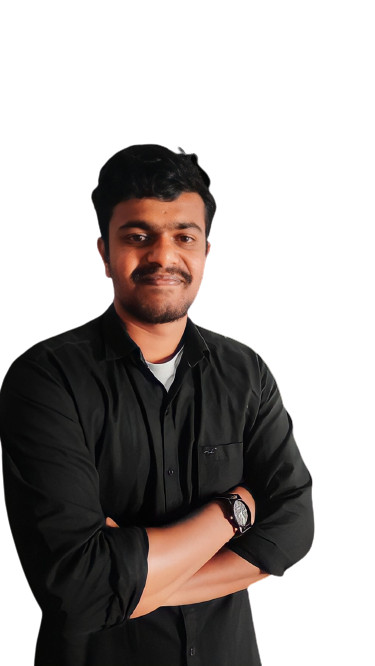
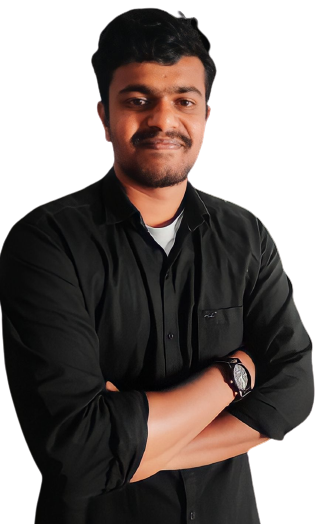
vvv

diff --git a/style.css b/style.css
@@ -31,10 +31,11 @@ body{
     height: 100vh;
     
     overflow: hidden;
+    
 
 }
 .container{
-    padding: 10px 10%;
+    padding: 10px 20px;
 
 }
 nav{
@@ -44,11 +45,6 @@ nav{
     justify-content: space-between;
     flex-wrap: wrap;
     float: right;
-}
-.logo{
-
-    margin-top: 8px;
-    width: 140px
 }
 
 nav ul li{
@@ -104,18 +100,19 @@ nav ul li a:hover::after{
    
     position: absolute;
    bottom: 0;
+   top: 15%;
     left: 10%;    
 }
-.image-box image{
+.image-box img{
     position: relative;
-
 }
+
 
 
 .pattern{
     position: absolute;
     top: 20%;
-    left: 40%;
+    left: 20%;
     display: flex;
     transform: rotate(40deg);
     z-index: -1;
@@ -131,11 +128,11 @@ nav ul li a:hover::after{
 }
 .pattern img:nth-child(1){
     transform: rotate(-45deg) translate(-70px, -50px) scale(.9);
-    animation-delay:0.5s;
+    animation-delay:0.3s;
 }
 .pattern img:nth-child(2){
     transform: rotate(65deg) translate(0px, -40px) scale(.9);
-    animation-delay:1.5s;
+    animation-delay:1.3s;
 }
 @keyframes move {
     100%{
@@ -162,7 +159,8 @@ nav ul li a:hover::after{
  }
 
 .about-col-1 img{ 
-    width: 90%; border-radius: 15px; 
+    
+    width: 100%; border-radius: 15px; 
 }
 
 
@@ -230,7 +228,7 @@ nav ul li a:hover::after{
 .service-list{
     display: grid;
     grid-template-columns: repeat(auto-fit, minmax(250px,1fr));
-    grid-gap: 40px;
+    grid-gap: 150px;
     margin-top: 50px;
 
 }
@@ -423,62 +421,94 @@ nav .fa-solid{
     display: none;
 }
 
-@media only screen and (max-width: 600px){
-   .image-box{
-    margin-top: 0;
-    position: sticky;
-   }
-    .header-text{
-       
-        margin-left: -70%;
-        
-    }
+@media only screen and (max-width: 600px) {
+  .pattern img{
+    display: none;
+    overflow: hidden;
+  }
+ .image-box{
+   left: -15%;
+    bottom: 0;
+ }
+  .image-box img{
+   
+ top: 40px;
+   width: 350px;
+    left: -10%;
+    bottom: 0;
+    z-index: -1;
+    position: relative;
+    
+  }
+
+  .header-text{
+    margin-top: 70%;
+    margin-left: 35%;
+    font-size: 30px;
+  }
+  
     .header-text h1{
-        text-align: center;
-       
+     
+        display: block;
+        margin-left: 30px;
         
+   
+      
+       z-index: 2;
         font-size: 27px;
     }
     nav .fa-solid{
         display: block;
         font-size: 25px;
         
+        
     }
     nav ul{
+        top: 0;
+    left: -100%;
+     position: absolute;
         background-color: rgba(12, 96,221, 0.20);
        backdrop-filter: blur(20px);
-        position:absolute;
-        top: 0;
-        right: -200px;
-        width: 200px;
+       
+    
+      
+        width: 100%;
         height: 100vh;
-        
-        
-        padding-top: 50px;
-        
+        display: flex;
+        flex-direction: column;
+       align-items: center;
+       overflow: hidden;
+       justify-content: center;
+      
         z-index: 2;
-        transition: right 0.3s ;
+        transition: left 0.5s;
+       
     }
+    
    
     nav ul li{
-        text-align: center;
-        display: block;
-        margin: 35px ;
+      display: flex;
+      align-items: center;
+        
+        
+       margin: 25px 0;
+       
+       
+      
     }
     nav ul .fa-solid{
-        float: left;
+        float: right;
         position: absolute;
         top: 25px;
-        left: 25px;
+        right: 25px;
         cursor: pointer;
     }
+    
     .subtitle{
+       
         font-size: 40px;
     }
-    .about-col-2{
-        flex-basis: 100%;
-    }
-   
+    
     .about-col-2{
         font-size: 14px;
     }
@@ -493,6 +523,8 @@ nav .fa-solid{
         flex-basis: 100%;
     }
     .about-col-1{
+        
+     
         margin-bottom: 20px;
     }
 }

diff --git a/index.html b/index.html
@@ -26,16 +26,17 @@
                 <i class="fa-solid fa-bars" onclick="openmenu()"></i>
             </nav>
             <div class="header-text">
-                <h1 class="anim">Hi, I'm <span class="anim">Kalyan Gudise</span></h1>
+                <h1 class="anim">Hi, I'm <span class="anim">  Kalyan Gudise</span></h1>
               <!---- <h3>I'm a Fresher</h3>--->
             </div>
-            <div class="image-box">
+           <div class="image-box">
                 <img  src="images/background.png" class="image anim">
-                <div class="pattern">
-                   <img src="images/background.1.png" >
+                </div>
+             <div class="pattern">
+                 <img src="images/background.1.png" >
                    <img src="images/background.1.png" >
 
-                </div>
+                
             </div>
         </div>
     </div>
@@ -80,12 +81,12 @@
         </div>
         </div>
     </div>
-    <!--Services--
-<div id="services">
+    <!--Services---->
+<!----<div id="services">
     <div class="container">
         <h1 class="subtitle">My Services</h1>
         <div class="service-list">
-            <div>
+           <div>
                 <i class="fa-solid fa-code"></i>
                 <h2>klayna</h2>
                 <p>Lorem ipsum, dolor sit amet consectetur adipisicing elit. Minus, consectetur.</p>
@@ -97,17 +98,17 @@
                 <p>Lorem ipsum, dolor sit amet consectetur adipisicing elit. Minus, consectetur.</p>
                 <a href="#">learnmore</a>
             </div>
-            <div>
+        <div>
                 <i class="fa-solid fa-file-code"></i>
                 <h2>klayna</h2>
                 <p>Lorem ipsum, dolor sit amet consectetur adipisicing elit. Minus, consectetur.</p>
                 <a href="#">learnmore</a>
-            </div>
+            </div>-->
 
         </div>
 
     </div>
-</div>--->
+</div>
 <!----Portfolio----->
 
 <div id="portfolio">
@@ -153,7 +154,7 @@
                 <a href="https://instagram.com/babblu__kalyan?igshid=MTg0ZDhmNDA="><i class="fa-brands fa-instagram"></i></a>
                 <a href="https://www.linkedin.com/in/kalyan-gudise-004a07256"><i class="fa-brands fa-linkedin"></i></a>
             </div>
-            <a href="Kalyan Gudise Resume.pdf" download class="btn btn2" >Download Resume</a>
+            <a href="images/Kalyan Gudise Resume.pdf" download class="btn btn2" >Download Resume</a>
         </div>
             <div class="contact-right">
 <form  name="submit-to-google-sheet">
@@ -189,10 +190,10 @@
     <script>
         var sidemenu= document.getElementById("sidemenu");
         function openmenu(){
-            sidemenu.style.right="0";
+            sidemenu.style.left="0";
         }
         function closemenu(){
-            sidemenu.style.right="-200px";
+            sidemenu.style.left="-100%";
         }
 
 
